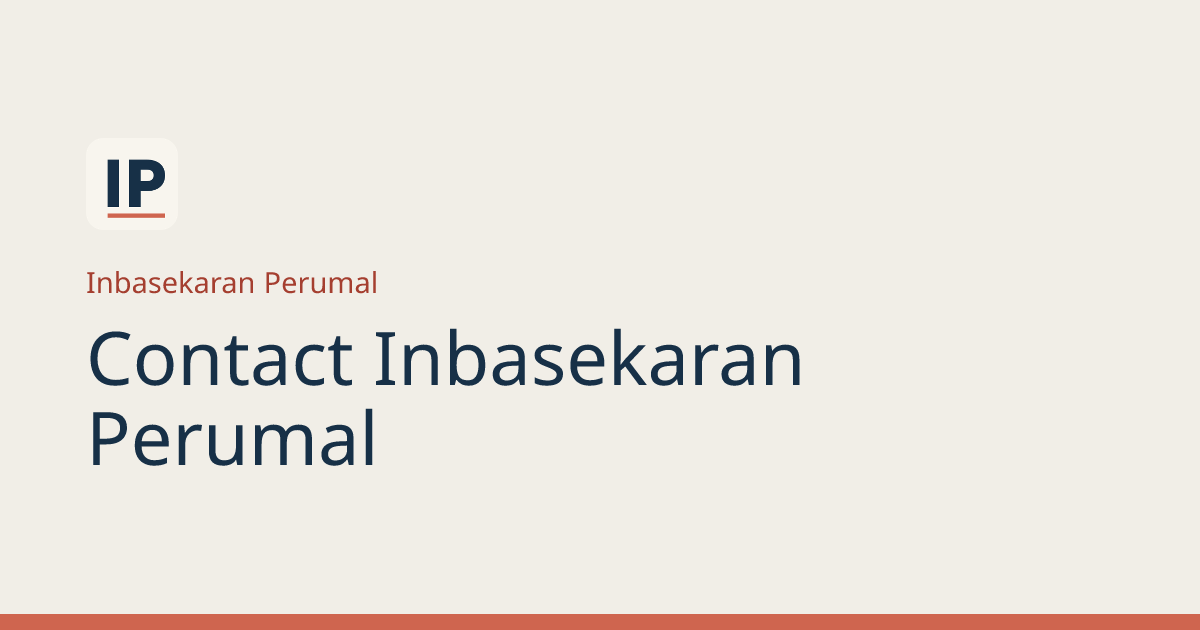
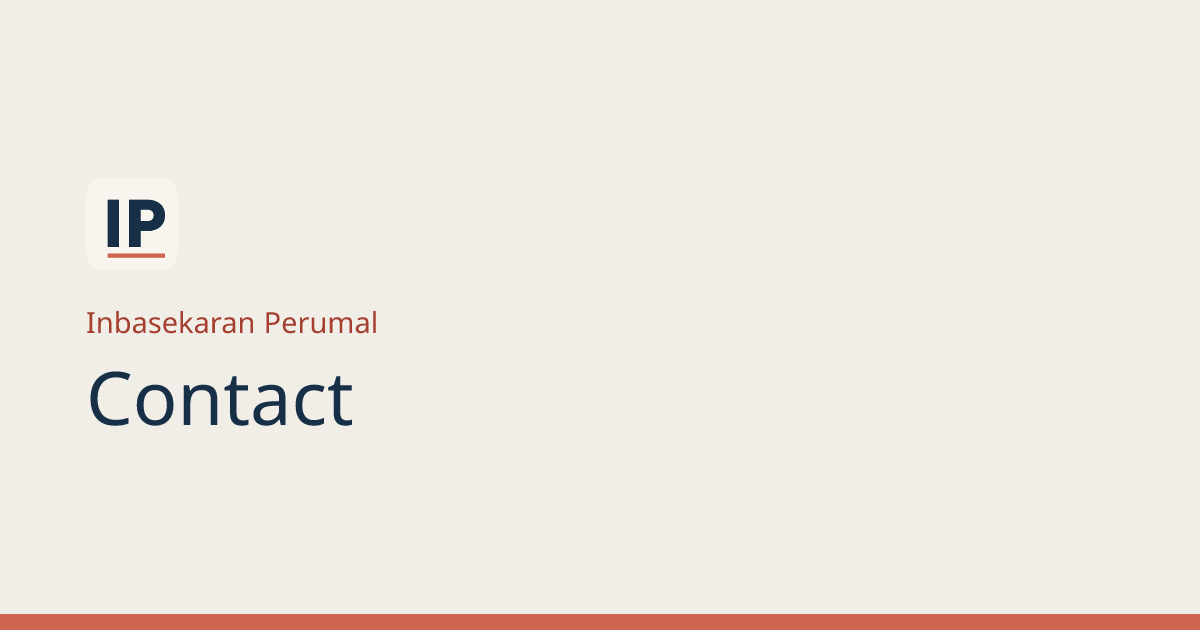
Refine homepage sharing preview

Changed region(s): [[0.0617, 0.2413, 0.6783, 0.754]]

diff --git a/content/portfolio.ts b/content/portfolio.ts
@@ -3,16 +3,14 @@ import { links } from "./links.ts";
 export const sections = {
   work: {
     label: "Work",
-    searchTitle: "Applied AI and software engineering work",
     anchor: "work",
     route: "/work/",
     heading: "Applied AI and software engineering work",
-    introduction: "Explore four projects spanning natural language filtering, AI-assisted engineering, conversation intelligence and on-device gaze tracking. Each case study describes my contribution and the decisions behind it.",
+    introduction: "Explore projects spanning natural language filtering, AI-assisted engineering, conversation intelligence and on-device gaze tracking. Each case study describes my contribution and the decisions behind it.",
     description: "Explore Inbasekaran Perumal’s software engineering case studies, from natural language filtering and ACE MCP to AI-assisted workflows and VisionGuard.",
   },
   research: {
     label: "Research",
-    searchTitle: "Research and publications",
     anchor: "research",
     route: "/research/",
     heading: "Research and publications",
@@ -21,7 +19,6 @@ export const sections = {
   },
   experience: {
     label: "Experience",
-    searchTitle: "Software engineering and research experience",
     anchor: "experience",
     route: "/experience/",
     heading: "Software engineering and research experience",
@@ -34,7 +31,7 @@ export const sections = {
     anchor: "contact",
     route: "/contact/",
     heading: "Contact Inbasekaran Perumal",
-    introduction: "Email me to discuss applied AI, backend engineering or research. You can also find my professional profile, code and résumé below.",
+    introduction: "Get in touch to discuss applied AI, backend engineering or research.",
     description: "Get in touch with Inbasekaran Perumal by email or LinkedIn, browse his GitHub projects or download his résumé.",
   },
 } as const;
@@ -58,6 +55,11 @@ export const seo = {
   description:
     "Software engineer building applied AI and backend systems. Explore Inbasekaran Perumal’s selected work, research and open-source contributions.",
 } as const;
+export const homepageSharing = {
+  title: "Inbasekaran Perumal",
+  description: "Software engineer building applied AI and backend systems.",
+} as const;
+
 export type ArtifactLink = { label: string; href: string; context?: string };
 export const projectAnchors: Record<string, string> = {
   "natural-language-filtering": "smart-filters",

diff --git a/lib/page-metadata.ts b/lib/page-metadata.ts
@@ -1,24 +1,26 @@
 import type { Metadata } from "next";
 import { searchAssets } from "@/content/assets";
-import { homepage } from "@/content/portfolio";
+import { site } from "@/content/portfolio";
 
 export function pageMetadata({
   path,
   title,
   description,
-  cardTitle,
+  imageAlt,
+  sharing = { title, description },
 }: {
   path: string;
   title: string;
   description: string;
-  cardTitle: string;
+  imageAlt: string;
+  sharing?: { title: string; description: string };
 }): Metadata {
   const image = {
     url: searchAssets.share.path(path),
     width: searchAssets.share.width,
     height: searchAssets.share.height,
     type: searchAssets.share.type,
-    alt: cardTitle,
+    alt: imageAlt,
   };
 
   return {
@@ -27,16 +29,14 @@ export function pageMetadata({
     alternates: { canonical: path },
     openGraph: {
       type: "website",
-      siteName: homepage.name,
+      siteName: site.mark,
       url: path,
-      title,
-      description,
+      ...sharing,
       images: [image],
     },
     twitter: {
       card: "summary_large_image",
-      title,
-      description,
+      ...sharing,
       images: [image],
     },
   };

diff --git a/app/page.tsx b/app/page.tsx
@@ -4,11 +4,16 @@ import { LinkedArtifact } from "@/components/linked-artifact";
 import { OpeningSequence } from "@/components/opening-sequence";
 import { PortraitTriptych } from "@/components/portrait-triptych";
 import { SiteNavigation } from "@/components/site-navigation";
-import { assets } from "@/content/assets";
+import { assets, homepageShareArt } from "@/content/assets";
 import { pageMetadata } from "@/lib/page-metadata";
 import { links, siteOrigin } from "@/content/links";
-import { homepage, seo, site } from "@/content/portfolio";
-export const metadata = pageMetadata({ path: "/", ...seo, cardTitle: homepage.name });
+import { homepage, homepageSharing, seo, site } from "@/content/portfolio";
+export const metadata = pageMetadata({
+  path: "/",
+  ...seo,
+  sharing: homepageSharing,
+  imageAlt: homepageShareArt.alt,
+});
 
 const homeUrl = `${siteOrigin}/`;
 const structuredData = {

diff --git a/content/assets.ts b/content/assets.ts
@@ -245,9 +245,15 @@ export const assets = {
   },
 } as const satisfies Record<string, DeliveryAsset>;
 
+export const homepageShareArt = {
+  source: "assets/source/inba-share.svg",
+  alt: "INBA in bold navy letters with a red underline on a warm paper background",
+} as const;
+
 export const searchAssets = {
   share: {
-    path: (page: string) => `/share/${page.split("/").filter(Boolean).join("-") || "home"}.png`,
+    path: (page: string) =>
+      page === "/" ? "/share/home-inba.png" : `/share/${page.split("/").filter(Boolean).join("-")}.png`,
     width: 1200,
     height: 630,
     type: "image/png",

diff --git a/components/section-page.tsx b/components/section-page.tsx
@@ -4,11 +4,12 @@ import { homepage, site, type Section } from "@/content/portfolio";
 import { pageMetadata } from "@/lib/page-metadata";
 
 export function sectionMetadata(section: Section) {
+  const title = "searchTitle" in section ? section.searchTitle : section.heading;
   return pageMetadata({
     path: section.route,
-    title: `${section.searchTitle} | ${homepage.name}`,
+    title: `${title} | ${homepage.name}`,
     description: section.description,
-    cardTitle: section.heading,
+    imageAlt: title,
   });
 }
 

diff --git a/app/work/[slug]/page.tsx b/app/work/[slug]/page.tsx
@@ -20,7 +20,7 @@ export async function generateMetadata({ params }: Props): Promise<Metadata> {
     path: projectPath(slug),
     title: `${project.title} | ${homepage.name}`,
     description: project.summary,
-    cardTitle: project.title,
+    imageAlt: project.title,
   });
 }
 export default async function ProjectPage({ params }: Props) {

diff --git a/AGENTS.md b/AGENTS.md
@@ -14,6 +14,7 @@ Personal portfolio for Inbasekaran Perumal. Next.js App Router, React, TypeScrip
 Use Node 24.20.0 and npm 11.19.0, as pinned in `.node-version` and `package.json`. Install with `npm ci`; start with `npm run dev`.
 
 - For application changes, run `npm run lint -- --max-warnings=0`, `npm run typecheck`, `npm run build` and relevant tests.
+- Have an independent adversarial reviewer check user-visible changes before publishing. Fix actionable findings and verify the revised output in its intended context. For sharing changes, inspect a 96 × 96 center crop and test the deployed link in the target app when accessible.
 - Before publishing application changes, run `npm run verify:release`. It builds `out/` and checks content, assets, legacy anchors, Node tests, Chromium, WebKit and screenshots.
 - Browser tests serve `out/` on port 4173. Rebuild after source changes; an existing server is reused locally. Use Chrome and Playwright WebKit as configured.
 - For documentation-only changes, check links, commands and `git diff --check`; a full browser run is unnecessary.

diff --git a/assets/source/README.md b/assets/source/README.md
@@ -1,3 +1,5 @@
 # Source media
 
 These approved working files are preserved byte-for-byte outside `public/`. They are inputs to `npm run assets:generate`, never delivery URLs. `content/assets.ts` owns their integrity hashes and the responsive AVIF/WebP delivery contract.
+
+The homepage sharing card uses `inba-share.svg`, with lettering outlined from [Instrument Sans Bold](https://github.com/google/fonts/tree/main/ofl/instrumentsans). Rasterize it with `npm run assets:generate:search`.
